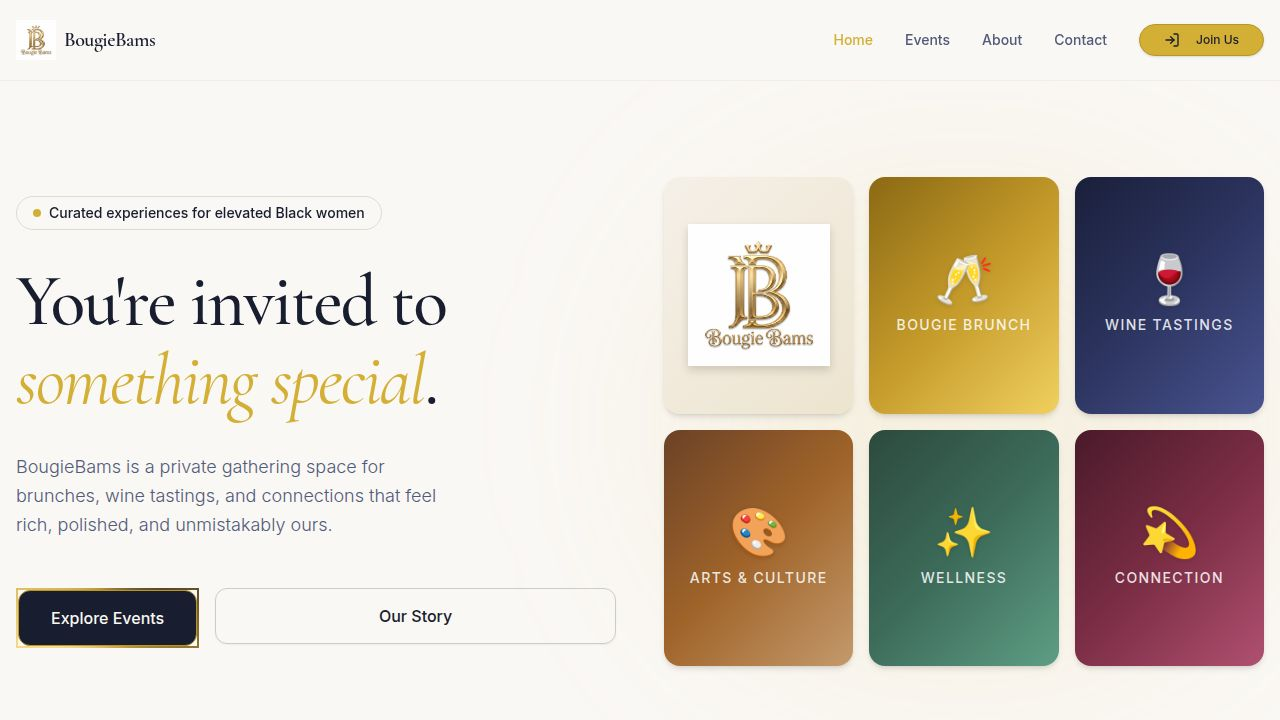
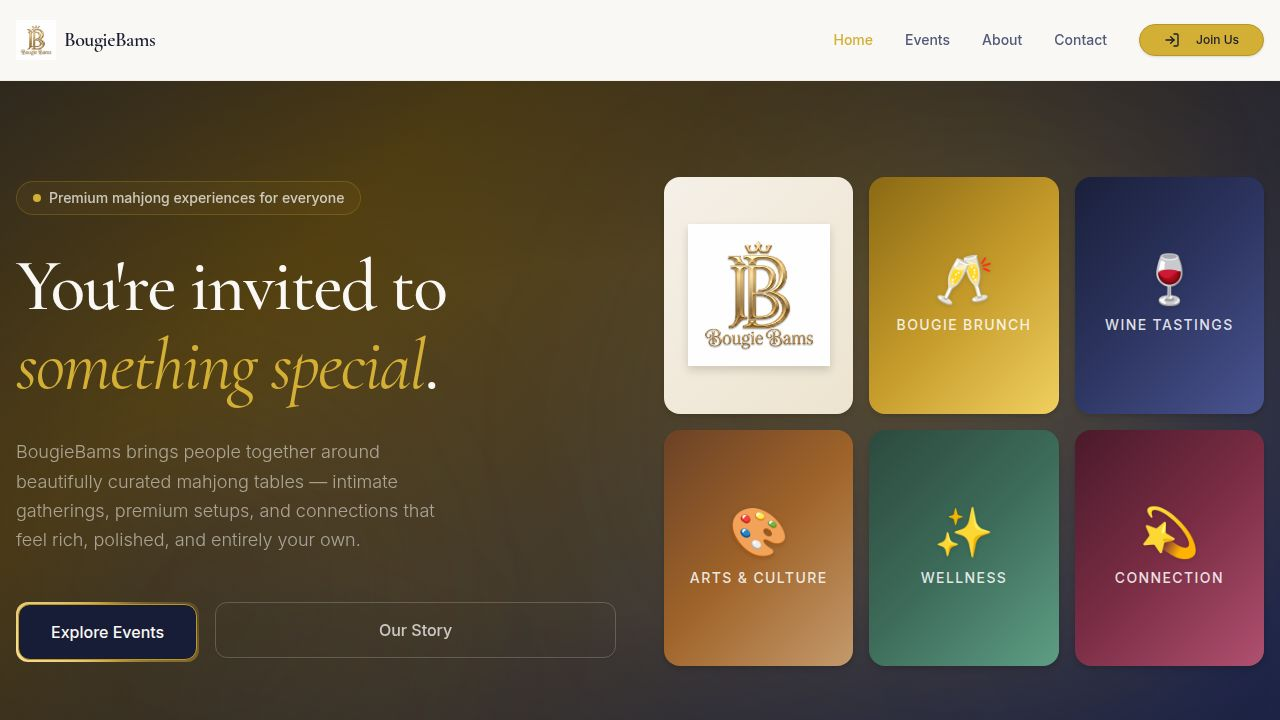
Task #12: Show registrations on the web community site
The /my-events page already existed with a full registrations list (upcoming
+ past sections, status badges, cancel dialog, and navigation links in the
header). The only missing piece from the task spec was showing basic profile
info (name, email) for logged-in members.

Changes made:
- Added a profile card at the top of my-events.tsx that shows:
  - User avatar (profile image or initials fallback)
  - Full name (firstName + lastName from AuthUser)
  - Email address with a mail icon (conditionally shown if present)
- Replaced the old "My Events" h1 + welcome paragraph with a cleaner
  "My Registrations" subheading below the profile card
- Imported Avatar/AvatarFallback/AvatarImage from existing shadcn ui
  components and Mail icon from lucide-react (both already in the project)

No new routes, components, or dependencies were added — all changes are
confined to artifacts/bougiebams-community/src/pages/my-events.tsx.

The page was already accessible via the desktop dropdown and mobile nav
under the authenticated user menu (My Events link).

Replit-Task-Id: 30686dff-73c2-4412-8129-a764077f7eb7

diff --git a/artifacts/bougiebams-community/src/pages/my-events.tsx b/artifacts/bougiebams-community/src/pages/my-events.tsx
@@ -2,9 +2,10 @@ import { useAuth } from "@workspace/replit-auth-web";
 import { useEffect, useState } from "react";
 import { Link } from "wouter";
 import { format } from "date-fns";
-import { Calendar, MapPin, Users, LogIn, X } from "lucide-react";
+import { Calendar, MapPin, Users, LogIn, X, Mail } from "lucide-react";
 import { Button } from "@/components/ui/button";
 import { Badge } from "@/components/ui/badge";
+import { Avatar, AvatarFallback, AvatarImage } from "@/components/ui/avatar";
 import { motion } from "framer-motion";
 import {
   AlertDialog,
@@ -105,13 +106,43 @@ export default function MyEvents() {
   const upcoming = items.filter((i) => new Date(i.event.date) >= now);
   const past = items.filter((i) => new Date(i.event.date) < now);
 
+  const initials = user
+    ? `${user.firstName?.[0] ?? ""}${user.lastName?.[0] ?? ""}`.toUpperCase() || "U"
+    : "U";
+  const fullName = [user?.firstName, user?.lastName].filter(Boolean).join(" ") || "Member";
+
   return (
     <div className="container mx-auto px-4 py-12 max-w-4xl">
-      <div className="mb-10">
-        <h1 className="font-serif text-3xl md:text-4xl font-semibold mb-2">My Events</h1>
-        <p className="text-muted-foreground">
-          Welcome back, {user?.firstName || "friend"}! Here are your registrations.
-        </p>
+      {/* Profile card */}
+      <motion.div
+        initial={{ opacity: 0, y: 12 }}
+        animate={{ opacity: 1, y: 0 }}
+        className="flex items-center gap-5 bg-card border border-border rounded-2xl px-6 py-5 mb-10"
+      >
+        <Avatar className="h-16 w-16 shrink-0">
+          {user?.profileImageUrl && (
+            <AvatarImage src={user.profileImageUrl} alt={fullName} />
+          )}
+          <AvatarFallback className="bg-primary text-primary-foreground text-xl font-semibold">
+            {initials}
+          </AvatarFallback>
+        </Avatar>
+        <div className="min-w-0">
+          <h1 className="font-serif text-2xl md:text-3xl font-semibold leading-tight truncate">
+            {fullName}
+          </h1>
+          {user?.email && (
+            <div className="flex items-center gap-1.5 mt-1 text-sm text-muted-foreground">
+              <Mail className="h-3.5 w-3.5 shrink-0" />
+              <span className="truncate">{user.email}</span>
+            </div>
+          )}
+        </div>
+      </motion.div>
+
+      <div className="mb-8">
+        <h2 className="font-serif text-xl font-semibold">My Registrations</h2>
+        <p className="text-muted-foreground text-sm mt-1">Your upcoming and past event registrations.</p>
       </div>
 
       {fetching && (